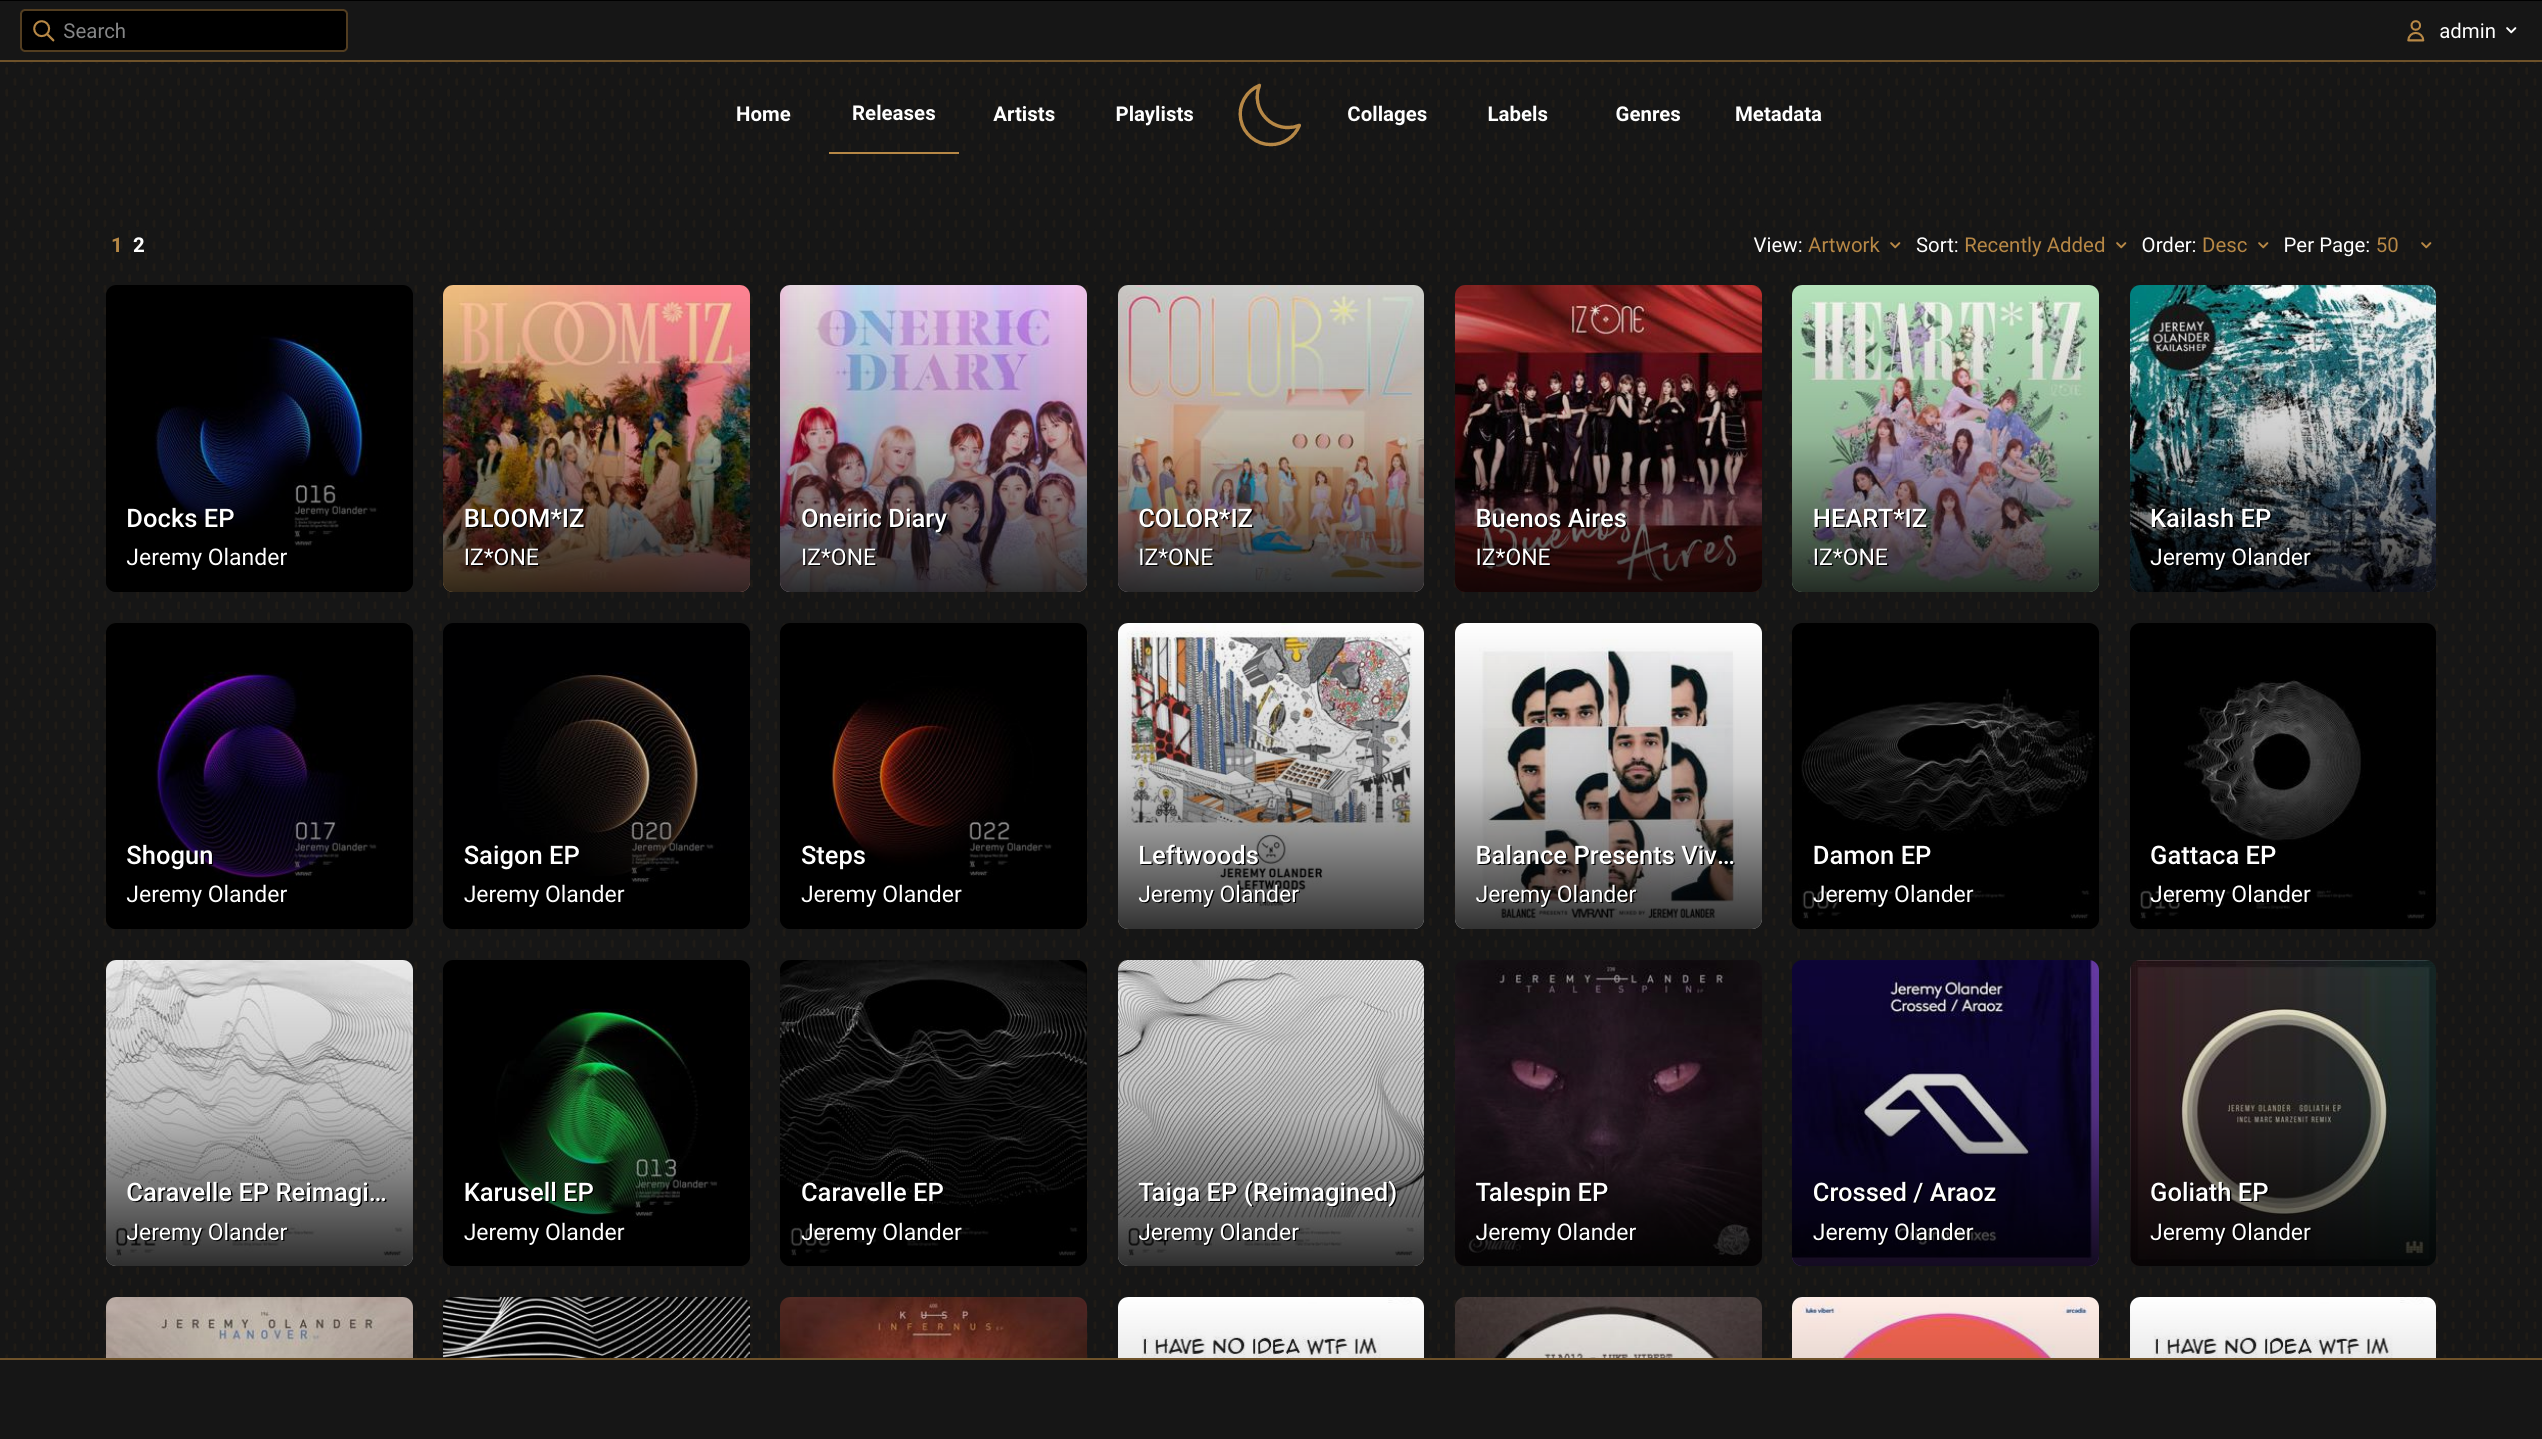
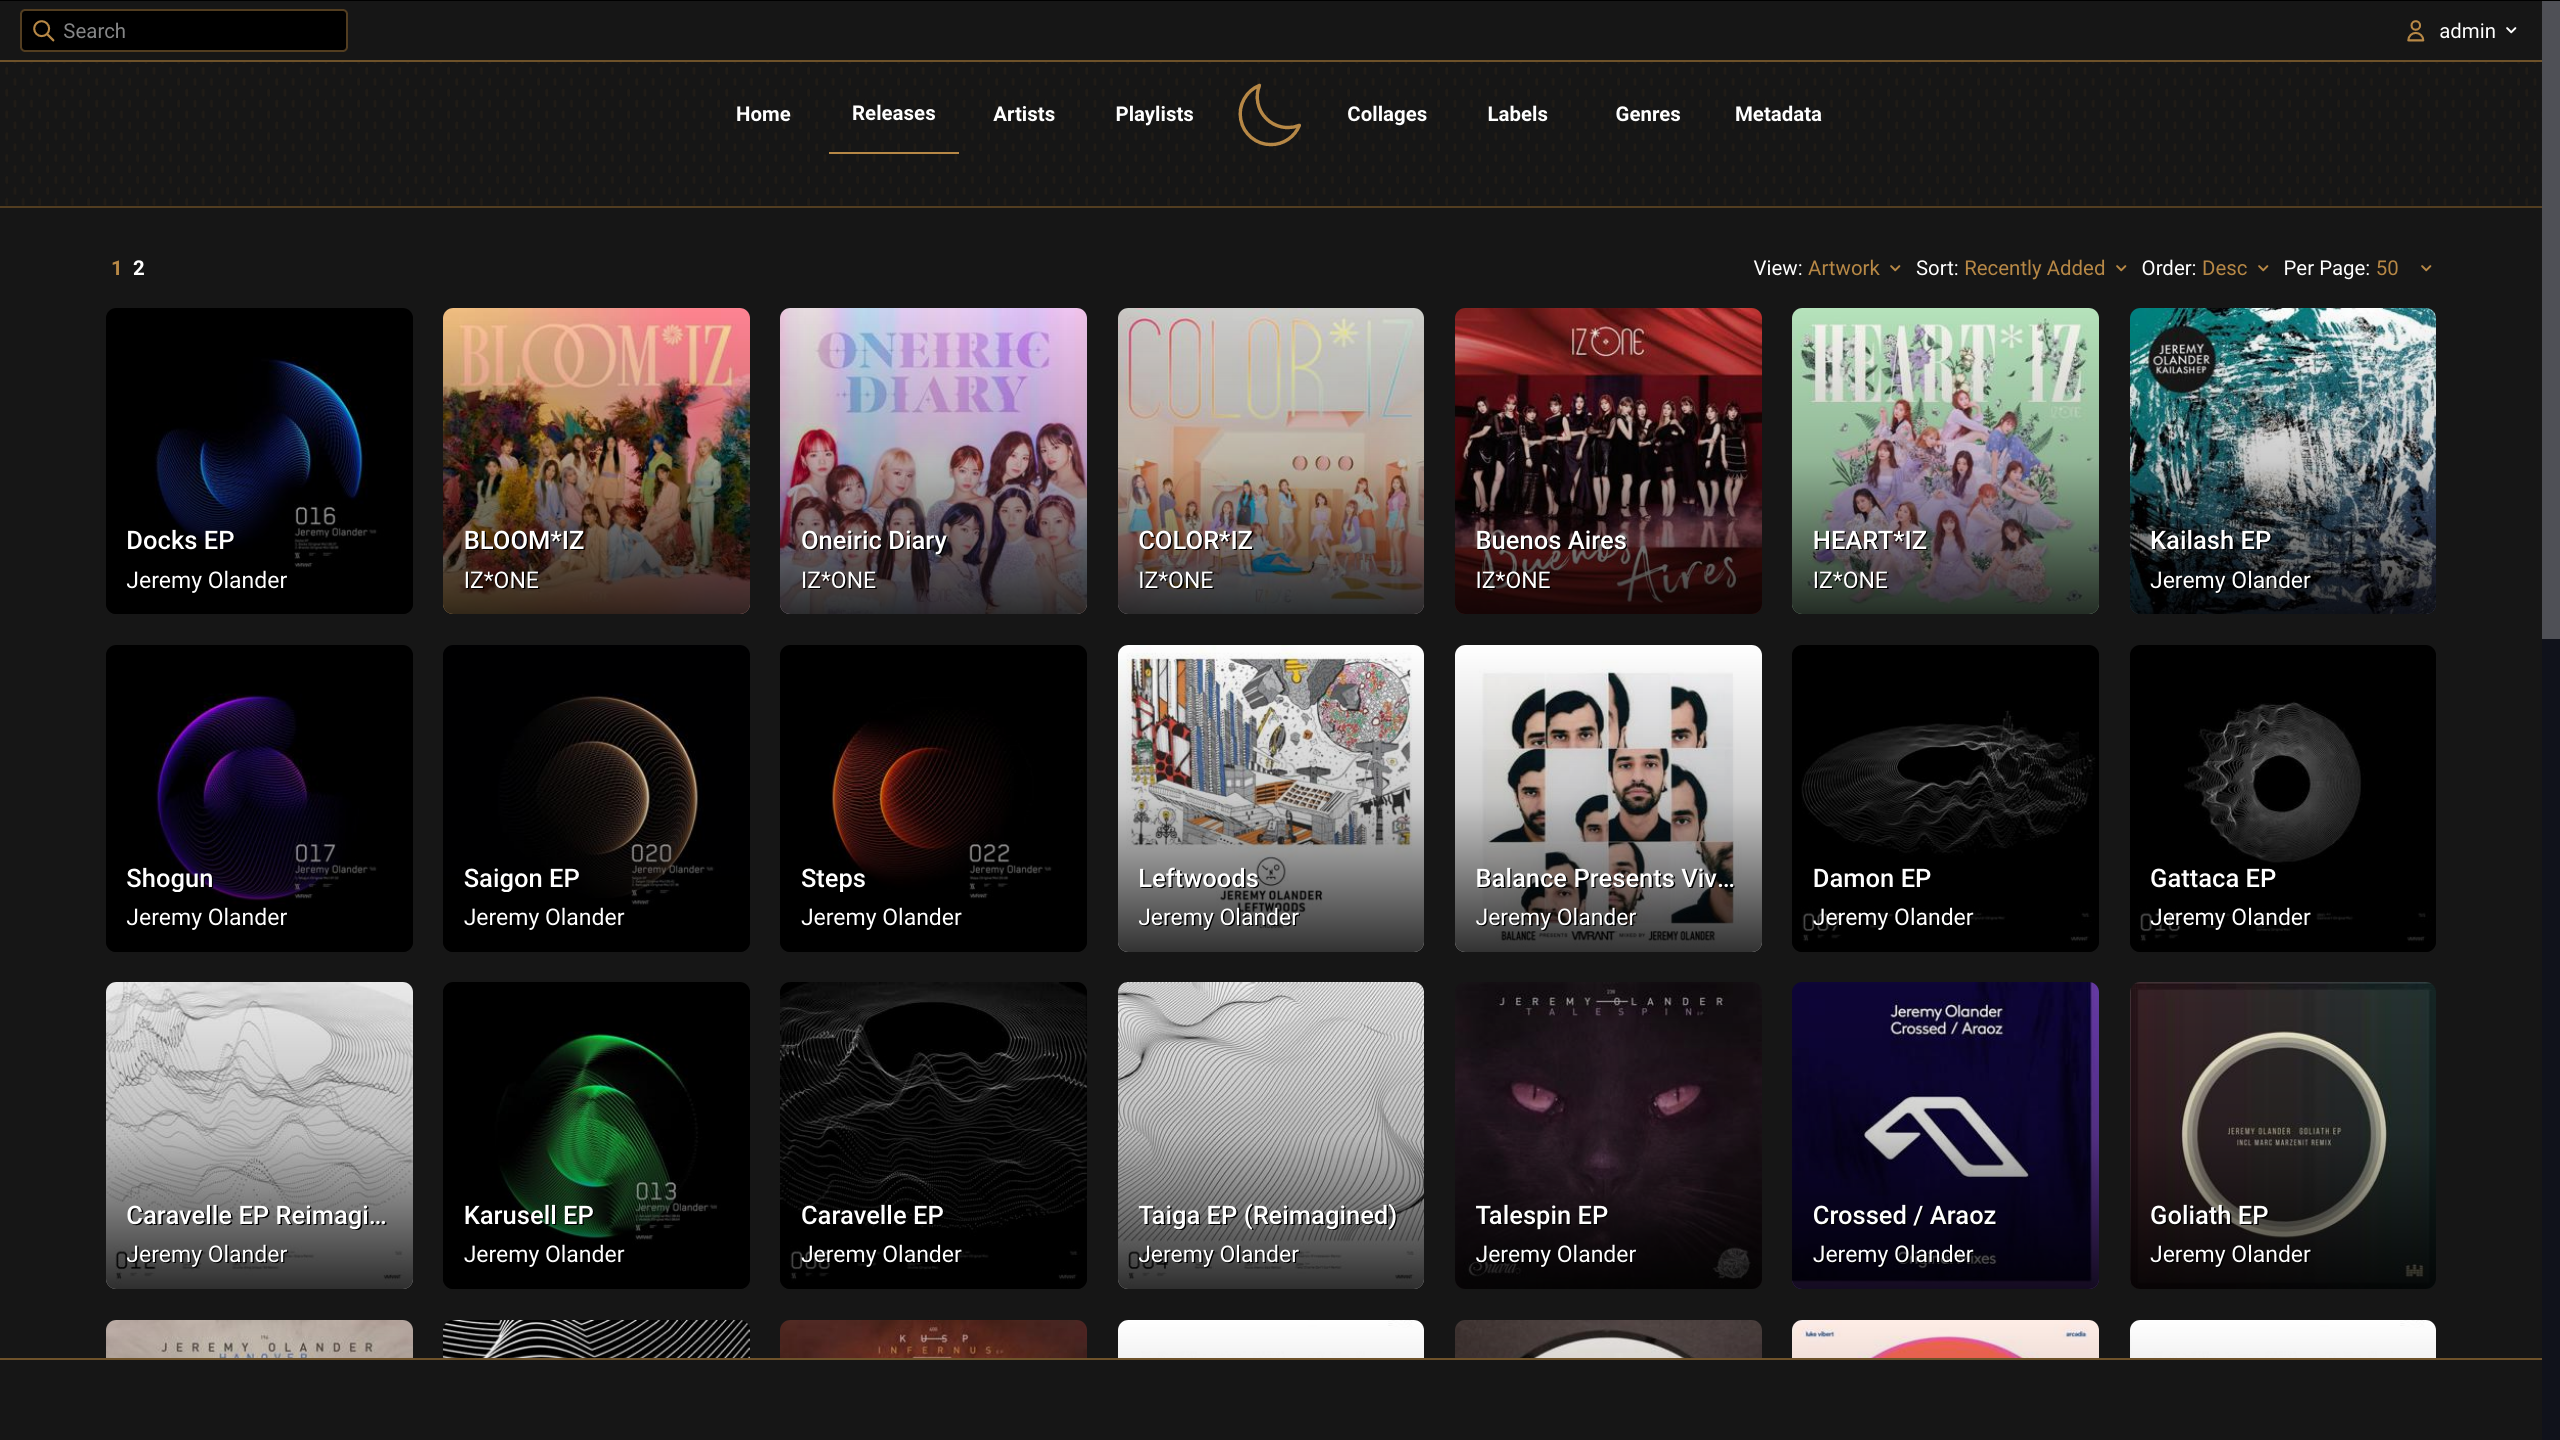
update background of content components

diff --git a/frontend/src/pages/Releases.tsx b/frontend/src/pages/Releases.tsx
@@ -1,4 +1,5 @@
 import * as React from 'react';
+import clsx from 'clsx';
 
 import { usePagination, useViewOptions } from 'src/hooks';
 
@@ -30,10 +31,17 @@ export const Releases: React.FC = (): React.ReactElement => {
   }, [pagination, total]);
 
   return (
-    <div className={viewOptions.releaseView === ReleaseView.ROW ? 'max-w-6xl mx-auto' : ''}>
-      <ViewSettings viewOptions={viewOptions} pagination={pagination} />
-      <PagedReleases view={viewOptions.releaseView} releases={results} />
-      <Pagination className="my-4" pagination={pagination} />
+    <div className="py-4 bg-bg w-full border-t-2 border-bg-embellish">
+      <div
+        className={clsx(
+          'mx-auto w-11/12',
+          viewOptions.releaseView === ReleaseView.ROW ? 'max-w-6xl' : '',
+        )}
+      >
+        <ViewSettings viewOptions={viewOptions} pagination={pagination} />
+        <PagedReleases view={viewOptions.releaseView} releases={results} />
+        <Pagination className="my-4" pagination={pagination} />
+      </div>
     </div>
   );
 };

diff --git a/frontend/src/components/Releases/ScrolledDisplay.tsx b/frontend/src/components/Releases/ScrolledDisplay.tsx
@@ -1,13 +1,17 @@
 import * as React from 'react';
+import clsx from 'clsx';
 
 import { ArtRelease } from 'src/components/Release';
 import { ReleaseT } from 'src/types';
 
-export const ScrolledReleases: React.FC<{ releases: ReleaseT[] }> = ({ releases }) => {
+export const ScrolledReleases: React.FC<{ releases: ReleaseT[]; className?: string }> = ({
+  releases,
+  className = '',
+}) => {
   return (
-    <div className="flex w-full overflow-x-auto overflow-y-hidden pb-2">
+    <div className={clsx(className, 'flex w-full overflow-x-auto')}>
       {releases.map((rls) => (
-        <div key={rls.id} className="w-56 flex-shrink-0 mr-4">
+        <div key={rls.id} className="w-56 h-56 flex-shrink-0 mr-4">
           <ArtRelease release={rls} />
         </div>
       ))}

diff --git a/frontend/src/index.tailwind.css b/frontend/src/index.tailwind.css
@@ -79,15 +79,15 @@ input::placeholder {
   transition: all 0.4s;
 }
 .two-sided > .back {
-  visibility: hidden;
+  display: none;
   @apply empty;
 }
 .two-sided:hover > .front {
-  visibility: hidden;
+  display: none;
   @apply empty;
 }
 .two-sided:hover > .back {
-  visibility: visible;
+  display: block;
   @apply full;
 }
 
@@ -116,4 +116,10 @@ input::placeholder {
 }
 .react-toast-notifications__toast__icon-wrapper {
   @apply justify-center;
+}
+
+.rpr--home-recently-added:after {
+  content: '';
+  flex: 0 0 4.166666%;
+  margin: 0 0 0 -1rem;
 }

diff --git a/frontend/src/pages/Home/RecentlyAdded.tsx b/frontend/src/pages/Home/RecentlyAdded.tsx
@@ -43,8 +43,10 @@ export const RecentlyAdded: React.FC = () => {
 
   return (
     <div className="flex flex-col">
-      <SectionHeader>Recently Added</SectionHeader>
-      <ScrolledReleases releases={releases} />
+      <SectionHeader className="w-11/12 mx-auto">Recently Added</SectionHeader>
+      <div className="w-full bg-bg border-t-2 border-b-2 border-bg-embellish">
+        <ScrolledReleases className="rpr--home-recently-added px-1/24 py-6" releases={releases} />
+      </div>
     </div>
   );
 };

diff --git a/frontend/src/App.tsx b/frontend/src/App.tsx
@@ -29,7 +29,7 @@ const Body: React.FC = () => {
     return (
       <>
         <Header />
-        <Routes className="flex-1 mt-8 w-11/12 mx-auto pb-24" />
+        <Routes className="flex-1 mt-8 pb-16" />
         <Footer />
       </>
     );

diff --git a/frontend/tailwind.config.js b/frontend/tailwind.config.js
@@ -34,6 +34,7 @@ module.exports = {
       spacing: {
         7: '1.75rem',
         full: '100%',
+        '1/24': '4.166666%',
       },
       height: {
         '1/2': '50%',
